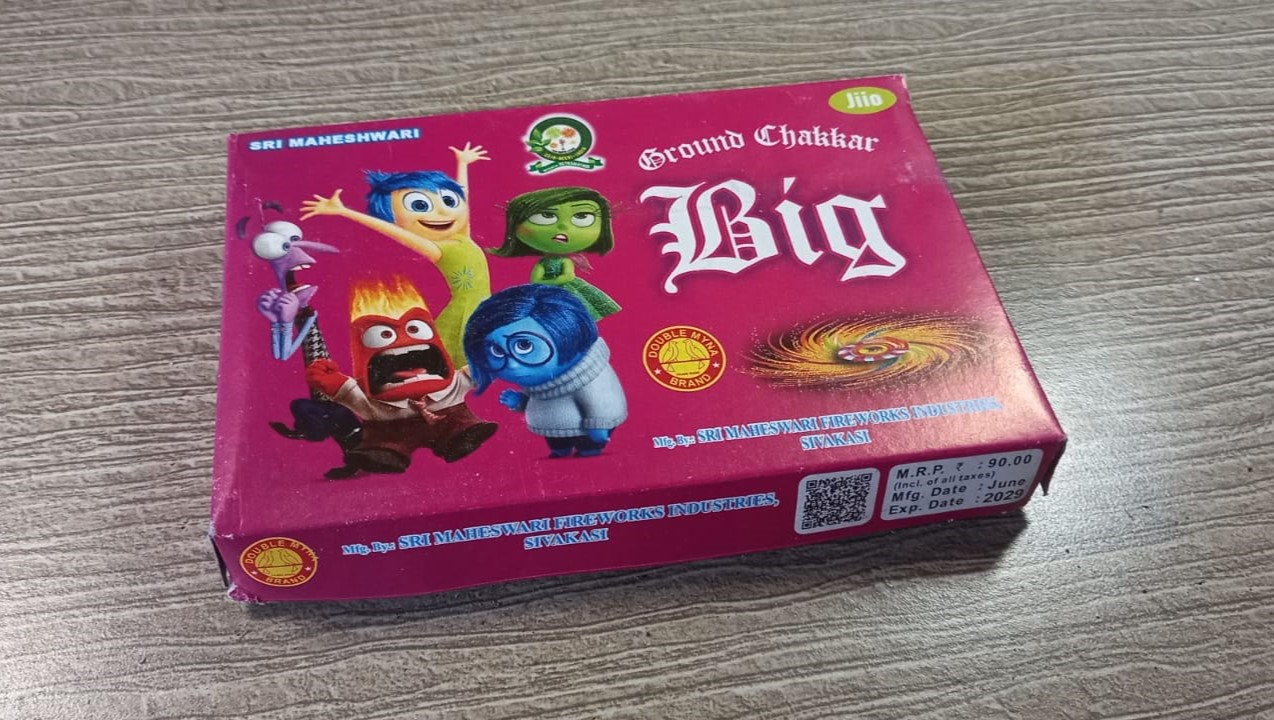
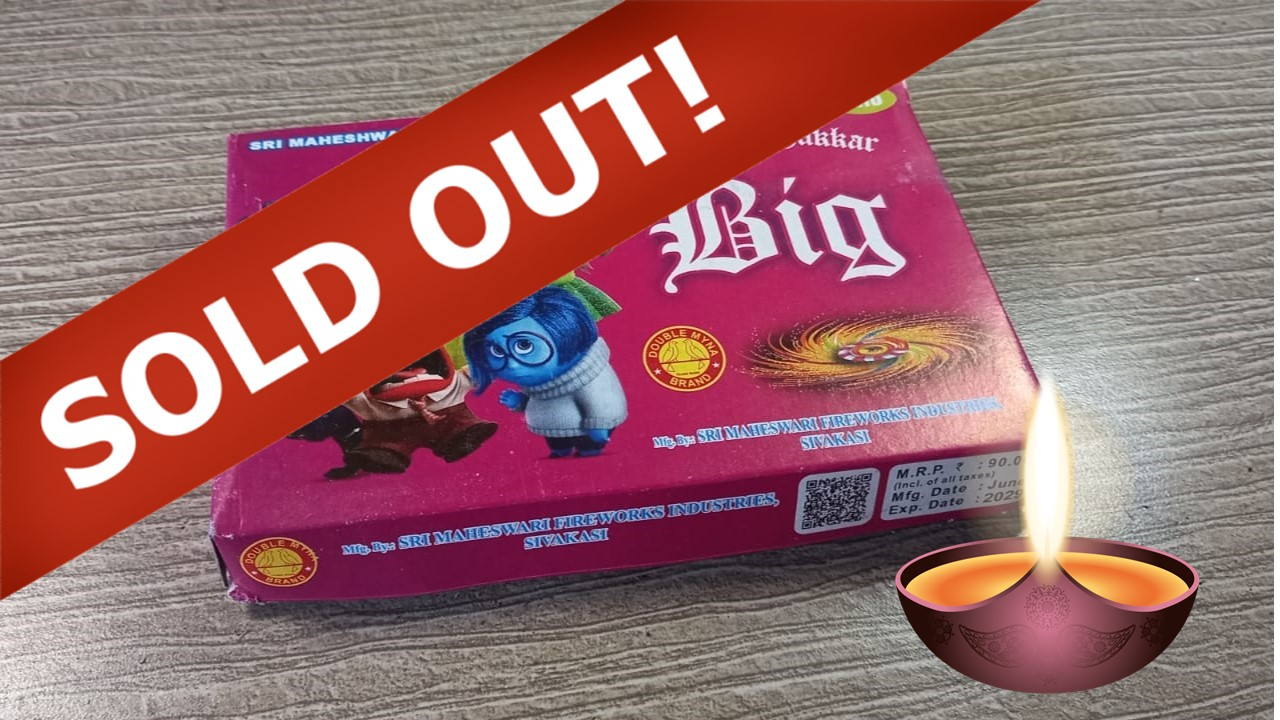
sold_out2

diff --git a/Mobile/cat.js b/Mobile/cat.js
@@ -126,14 +126,6 @@ function buynoww13(){
     document.getElementById("proamount").value = "Product Amount: "+amount;
 }
 
-function buynoww14(){
-    var t= document.getElementById("itemname14");
-    var name=t.innerText;
-    document.getElementById("proname").value = "Product Name: "+name;
-    var s= document.getElementById("itemamount14");
-    var amount=s.innerText;
-    document.getElementById("proamount").value = "Product Amount: "+amount;
-}
 function buynoww15(){
     var t= document.getElementById("itemname15");
     var name=t.innerText;
@@ -147,14 +139,6 @@ function buynoww16(){
     var name=t.innerText;
     document.getElementById("proname").value = "Product Name: "+name;
     var s= document.getElementById("itemamount16");
-    var amount=s.innerText;
-    document.getElementById("proamount").value = "Product Amount: "+amount;
-}
-function buynoww17(){
-    var t= document.getElementById("itemname17");
-    var name=t.innerText;
-    document.getElementById("proname").value = "Product Name: "+name;
-    var s= document.getElementById("itemamount17");
     var amount=s.innerText;
     document.getElementById("proamount").value = "Product Amount: "+amount;
 }
@@ -174,22 +158,6 @@ function buynoww19(){
     var amount=s.innerText;
     document.getElementById("proamount").value = "Product Amount: "+amount;
 }
-function buynoww20(){
-    var t= document.getElementById("itemname20");
-    var name=t.innerText;
-    document.getElementById("proname").value = "Product Name: "+name;
-    var s= document.getElementById("itemamount20");
-    var amount=s.innerText;
-    document.getElementById("proamount").value = "Product Amount: "+amount;
-}
-function buynoww20(){
-    var t= document.getElementById("itemname20");
-    var name=t.innerText;
-    document.getElementById("proname").value = "Product Name: "+name;
-    var s= document.getElementById("itemamount20");
-    var amount=s.innerText;
-    document.getElementById("proamount").value = "Product Amount: "+amount;
-}
 function buynoww21(){
     var t= document.getElementById("itemname21");
     var name=t.innerText;
@@ -198,15 +166,6 @@ function buynoww21(){
     var amount=s.innerText;
     document.getElementById("proamount").value = "Product Amount: "+amount;
 }
-function buynoww22(){
-    var t= document.getElementById("itemname22");
-    var name=t.innerText;
-    document.getElementById("proname").value = "Product Name: "+name;
-    var s= document.getElementById("itemamount22");
-    var amount=s.innerText;
-    document.getElementById("proamount").value = "Product Amount: "+amount;
-}
-
 function buynoww24(){
     var t= document.getElementById("itemname24");
     var name=t.innerText;
@@ -228,14 +187,6 @@ function buynoww26(){
     var name=t.innerText;
     document.getElementById("proname").value = "Product Name: "+name;
     var s= document.getElementById("itemamount26");
-    var amount=s.innerText;
-    document.getElementById("proamount").value = "Product Amount: "+amount;
-}
-function buynoww27(){
-    var t= document.getElementById("itemname27");
-    var name=t.innerText;
-    document.getElementById("proname").value = "Product Name: "+name;
-    var s= document.getElementById("itemamount27");
     var amount=s.innerText;
     document.getElementById("proamount").value = "Product Amount: "+amount;
 }
@@ -263,7 +214,6 @@ function buynoww31(){
     var amount=s.innerText;
     document.getElementById("proamount").value = "Product Amount: "+amount;
 }
-
 function buynoww32(){
     var t= document.getElementById("itemname32");
     var name=t.innerText;

diff --git a/Desktop/cat.js b/Desktop/cat.js
@@ -126,14 +126,6 @@ function buynoww13(){
     document.getElementById("proamount").value = "Product Amount: "+amount;
 }
 
-function buynoww14(){
-    var t= document.getElementById("itemname14");
-    var name=t.innerText;
-    document.getElementById("proname").value = "Product Name: "+name;
-    var s= document.getElementById("itemamount14");
-    var amount=s.innerText;
-    document.getElementById("proamount").value = "Product Amount: "+amount;
-}
 function buynoww15(){
     var t= document.getElementById("itemname15");
     var name=t.innerText;
@@ -147,14 +139,6 @@ function buynoww16(){
     var name=t.innerText;
     document.getElementById("proname").value = "Product Name: "+name;
     var s= document.getElementById("itemamount16");
-    var amount=s.innerText;
-    document.getElementById("proamount").value = "Product Amount: "+amount;
-}
-function buynoww17(){
-    var t= document.getElementById("itemname17");
-    var name=t.innerText;
-    document.getElementById("proname").value = "Product Name: "+name;
-    var s= document.getElementById("itemamount17");
     var amount=s.innerText;
     document.getElementById("proamount").value = "Product Amount: "+amount;
 }
@@ -174,35 +158,11 @@ function buynoww19(){
     var amount=s.innerText;
     document.getElementById("proamount").value = "Product Amount: "+amount;
 }
-function buynoww20(){
-    var t= document.getElementById("itemname20");
-    var name=t.innerText;
-    document.getElementById("proname").value = "Product Name: "+name;
-    var s= document.getElementById("itemamount20");
-    var amount=s.innerText;
-    document.getElementById("proamount").value = "Product Amount: "+amount;
-}
-function buynoww20(){
-    var t= document.getElementById("itemname20");
-    var name=t.innerText;
-    document.getElementById("proname").value = "Product Name: "+name;
-    var s= document.getElementById("itemamount20");
-    var amount=s.innerText;
-    document.getElementById("proamount").value = "Product Amount: "+amount;
-}
 function buynoww21(){
     var t= document.getElementById("itemname21");
     var name=t.innerText;
     document.getElementById("proname").value = "Product Name: "+name;
     var s= document.getElementById("itemamount21");
-    var amount=s.innerText;
-    document.getElementById("proamount").value = "Product Amount: "+amount;
-}
-function buynoww22(){
-    var t= document.getElementById("itemname22");
-    var name=t.innerText;
-    document.getElementById("proname").value = "Product Name: "+name;
-    var s= document.getElementById("itemamount22");
     var amount=s.innerText;
     document.getElementById("proamount").value = "Product Amount: "+amount;
 }
@@ -227,14 +187,6 @@ function buynoww26(){
     var name=t.innerText;
     document.getElementById("proname").value = "Product Name: "+name;
     var s= document.getElementById("itemamount26");
-    var amount=s.innerText;
-    document.getElementById("proamount").value = "Product Amount: "+amount;
-}
-function buynoww27(){
-    var t= document.getElementById("itemname27");
-    var name=t.innerText;
-    document.getElementById("proname").value = "Product Name: "+name;
-    var s= document.getElementById("itemamount27");
     var amount=s.innerText;
     document.getElementById("proamount").value = "Product Amount: "+amount;
 }

diff --git a/Desktop/catalogs.html b/Desktop/catalogs.html
@@ -139,7 +139,7 @@
         <h3 id="itemname14">Helicopter</h3>
         <p style="color: yellow;">MRP- ₹900</p>
         <h6 id="itemamount14">Our Price- ₹499</h6>
-        <button onclick="buynoww14()" class="buy-4"><a href="#formtp">Buy Now</a></button>
+        <button class="buy-4"><a>Sold Out!!</a></button>
     </div>
     
     <!-- Third item: Kungfu Ladi -->
@@ -164,7 +164,7 @@
         <h3 id="itemname17">Snow patrol</h3>
         <p style="color: yellow;">MRP- ₹310</p>
         <h6 id="itemamount17">Our Price- ₹199</h6>
-        <button onclick="buynoww17()" class="buy-4"><a href="#formtp">Buy Now</a></button>
+        <button class="buy-4"><a>Sold Out!!</a></button>
     </div>
     
     <div class="content">
@@ -188,7 +188,7 @@
         <h3 id="itemname20">Cartoon chakri</h3>
         <p style="color: yellow;">MRP- ₹90</p>
         <h6 id="itemamount20">Our Price- ₹69</h6>
-        <button onclick="buynoww20()" class="buy-4"><a href="#formtp">Buy Now</a></button>
+        <button class="buy-4"><a>Sold Out!!</a></button>
     </div>
     
     <div class="content">
@@ -204,7 +204,7 @@
         <h3 id="itemname22">Bird Anar</h3>
         <p style="color: yellow;">MRP- ₹1300</p>
         <h6 id="itemamount22">Our Price- ₹799</h6>
-        <button onclick="buynoww22()" class="buy-4"><a href="#formtp">Buy Now</a></button>
+        <button class="buy-4"><a>Sold Out!!</a></button>
     </div>
     
     <div class="content">
@@ -244,7 +244,7 @@
         <h3 id="itemname27">Star merge</h3>
         <p style="color: yellow;">MRP- ₹425</p>
         <h6 id="itemamount27">Our Price- ₹249</h6>
-        <button onclick="buynoww27()" class="buy-4"><a href="#formtp">Buy Now</a></button>
+        <button class="buy-4"><a>Sold Out!!</a></button>
     </div>
     
     <div class="content">

diff --git a/Mobile/catalogs.html b/Mobile/catalogs.html
@@ -139,7 +139,7 @@
         <h3 id="itemname14">Helicopter</h3>
         <p style="color: yellow;">MRP- ₹900</p>
         <h6 id="itemamount14">Our Price- ₹499</h6>
-        <button onclick="buynoww14()" class="buy-4"><a href="#formtp">Buy Now</a></button>
+        <button class="buy-4"><a>Sold Out!!</a></button>
     </div>
     
     <!-- Third item: Kungfu Ladi -->
@@ -164,7 +164,7 @@
         <h3 id="itemname17">Snow patrol</h3>
         <p style="color: yellow;">MRP- ₹310</p>
         <h6 id="itemamount17">Our Price- ₹199</h6>
-        <button onclick="buynoww17()" class="buy-4"><a href="#formtp">Buy Now</a></button>
+        <button class="buy-4"><a>Sold Out!!</a></button>
     </div>
     
     <div class="content">
@@ -188,7 +188,7 @@
         <h3 id="itemname20">Cartoon chakri</h3>
         <p style="color: yellow;">MRP- ₹90</p>
         <h6 id="itemamount20">Our Price- ₹69</h6>
-        <button onclick="buynoww20()" class="buy-4"><a href="#formtp">Buy Now</a></button>
+        <button class="buy-4"><a>Sold Out!!</a></button>
     </div>
     
     <div class="content">
@@ -204,7 +204,7 @@
         <h3 id="itemname22">Bird Anar</h3>
         <p style="color: yellow;">MRP- ₹1300</p>
         <h6 id="itemamount22">Our Price- ₹799</h6>
-        <button onclick="buynoww22()" class="buy-4"><a href="#formtp">Buy Now</a></button>
+        <button class="buy-4"><a>Sold Out!!</a></button>
     </div>
     
     <div class="content">
@@ -244,7 +244,7 @@
         <h3 id="itemname27">Star merge</h3>
         <p style="color: yellow;">MRP- ₹425</p>
         <h6 id="itemamount27">Our Price- ₹249</h6>
-        <button onclick="buynoww27()" class="buy-4"><a href="#formtp">Buy Now</a></button>
+        <button class="buy-4"><a>Sold Out!!</a></button>
     </div>
     
     <div class="content">
